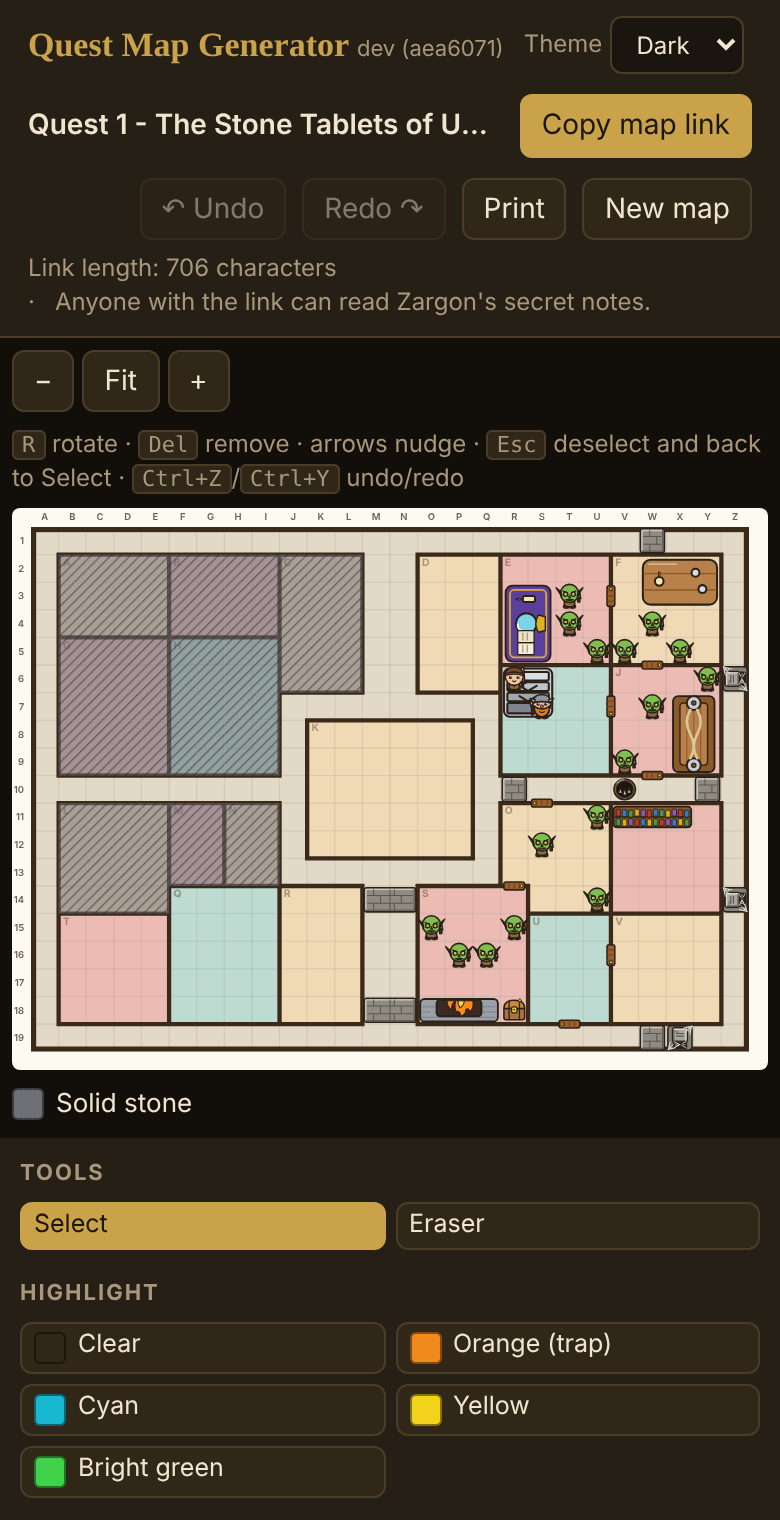
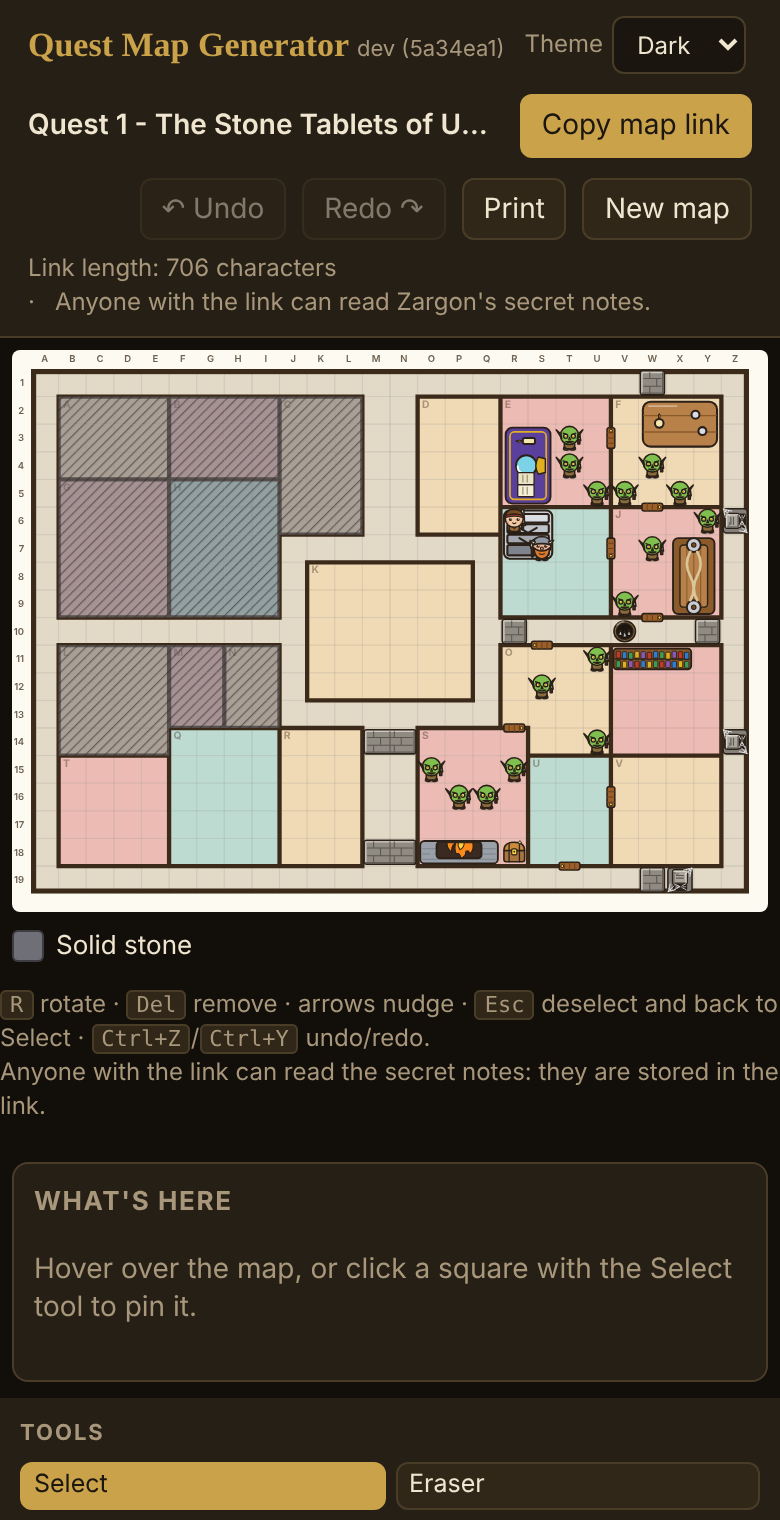
feat: single column shows What's here after the map and hides zoom
At screen widths up to 1000px the zoom buttons and keyboard hint are
hidden, and the What's here panel sits right after the map and its
legend, before the palette. The phone screenshot is regenerated.

This work was substantially AI-generated with human review and
direction throughout.

Vibe-Coder: Vibe-Coder 1.z3r0 <243014891+vibecoder-1z3r0@users.noreply.github.com>

diff --git a/src/style.css b/src/style.css
@@ -171,16 +171,20 @@ kbd { background: var(--panel2); border: 1px solid var(--border); border-radius:
   .tgrid { grid-template-columns: repeat(auto-fill, minmax(130px, 1fr)); }
 }
 
-/* Single column: the map and its controls first, then the palette, then the quest sheet, then the
-   side panels. #stage dissolves so its children can be ordered among the app's own columns. */
+/* Single column: the map, its legend and the What's here panel first, then the palette, then the
+   quest sheet, then the other side cards. #stage and #side dissolve so their children can be ordered
+   among the app's own columns. Zoom buttons and the keyboard hint are hidden here (pinch-zoom and
+   touch cover them). */
 @media screen and (max-width: 1000px) {
   #app { display: flex; flex-direction: column; align-items: stretch; background: var(--stage); }
-  #stage { display: contents; }
+  #stage, #side { display: contents; }
+  #stage > .zoombar, #stage > .hint.keys { display: none; }
   #stage > * { margin-left: 6px; margin-right: 6px; }
-  #stage > .zoombar { margin-top: 6px; }
-  #app > #tools { order: 1; margin-top: 8px; }
-  #stage > .sheet { order: 2; }
-  #app > #side { order: 3; }
+  #viewport { margin-top: 6px; }
+  #side > .card { margin: 8px 6px 0; order: 4; }
+  #side > #inspector-card { order: 1; min-height: 110px; }
+  #app > #tools { order: 2; margin-top: 8px; }
+  #stage > .sheet { order: 3; }
 }
 
 @media print {

diff --git a/SESSION_LOG.md b/SESSION_LOG.md
@@ -145,17 +145,19 @@ Source: `/root/.claude/projects/-home-user-the-quest-map-generator/2be6d510-95bb
 | 134 | merged branch deleted | 02:56:22 | 4s | 34s | 5 | 245 | 346 | 476,949 |
 | 135 | Hey can you pull my "session scrips" from many-game-show and fire up a… | 02:57:01 | 46s | 3m 45s | 40 | 10,553 | 37,882 | 4,690,280 |
 | 136 | Yeah after every commit | 03:01:32 | 18s | 0s | 16 | 3,060 | 3,852 | 1,543,022 |
-| 137 | Err on every commit | 03:01:50 | 37s | — | 30 | 12,720 | 15,839 | 3,391,001 |
+| 137 | Err on every commit | 03:01:50 | 42s | 16m 60s ⏳ | 32 | 13,161 | 16,531 | 3,656,130 |
+| 138 | On single column I think fit and zoom and the helper text should away,… | 03:19:32 | 10s | 35s | 8 | 2,086 | 17,520 | 532,524 |
+| 139 | Hide zoom on narrow width for now | 03:20:18 | 51s | — | 12 | 3,738 | 1,963 | 1,105,741 |
 
-**Total turns:** 137  
-**Total agent time spent (excl. flagged):** 2h 20m  
-**Total human think time (excl. outliers):** 2h 31m  
+**Total turns:** 139  
+**Total agent time spent (excl. flagged):** 2h 21m  
+**Total human think time (excl. outliers):** 2h 32m  
 **Average human think time (excl. outliers):** 1m 12s  
-**Think-time outliers (> 15 min):** 10  
-**Total input tokens:** 2,933  
-**Total output tokens:** 1,442,934  
-**Total cache-write tokens:** 11,294,898  
-**Total cache-read tokens:** 495,015,628  
+**Think-time outliers (> 15 min):** 11  
+**Total input tokens:** 2,955  
+**Total output tokens:** 1,449,199  
+**Total cache-write tokens:** 11,315,073  
+**Total cache-read tokens:** 496,919,022  
 **Cache hit ratio (cache-read ÷ all prompt-side tokens):** 98%
 
-⏳ Turn(s) 8, 13, 53, 54, 62, 76, 85, 105, 124, 129 had a 'human think time' over 15 min (total 21h 10m) — likely a break, a resumed session, or time reading a long response rather than active back-and-forth. Excluded from BOTH the total and the average above (still shown per-row).
+⏳ Turn(s) 8, 13, 53, 54, 62, 76, 85, 105, 124, 129, 137 had a 'human think time' over 15 min (total 21h 27m) — likely a break, a resumed session, or time reading a long response rather than active back-and-forth. Excluded from BOTH the total and the average above (still shown per-row).

diff --git a/AGENTS.md b/AGENTS.md
@@ -188,7 +188,9 @@ and the card notes "BP not included (varies by quest)" instead of going n/a.
 - In-page **Undo/Redo** with its own history stack (Ctrl+Z / Ctrl+Y); typing is one step per pause.
   Browser back/forward also work. Opening a link starts a fresh stack.
 - Touch: pinch-zoom and pan.
-- **Single-column layout** (screens up to 1000px wide, no device sniffing): the map and its controls, then the palette right after the map, then the quest sheet, then the side panels.
+- **Single-column layout** (screens up to 1000px wide, no device sniffing): the map and its highlight legend, then
+  the What's here panel, then the palette, then the quest sheet, then the other side cards. The zoom buttons and
+  the keyboard shortcut line are hidden at these widths (pinch-zoom and touch cover them).
 - **Header**: two rows. Row 1: app name and build, the quest line (`Series: Quest N - Title`, blank
   parts dropped, truncated with a tooltip), then Undo, Redo, Print and Theme on the right. Row 2:
   Copy map link, link length, the privacy note ("Anyone with the link can read Zargon's secret
